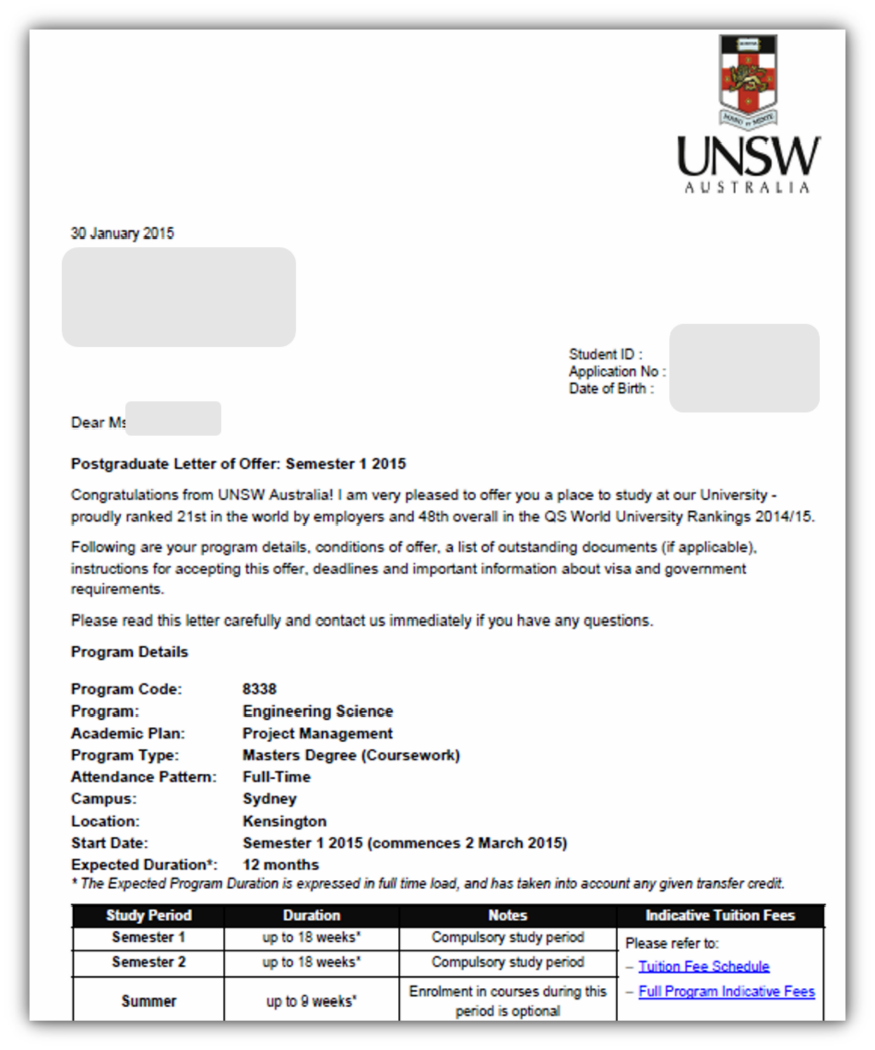
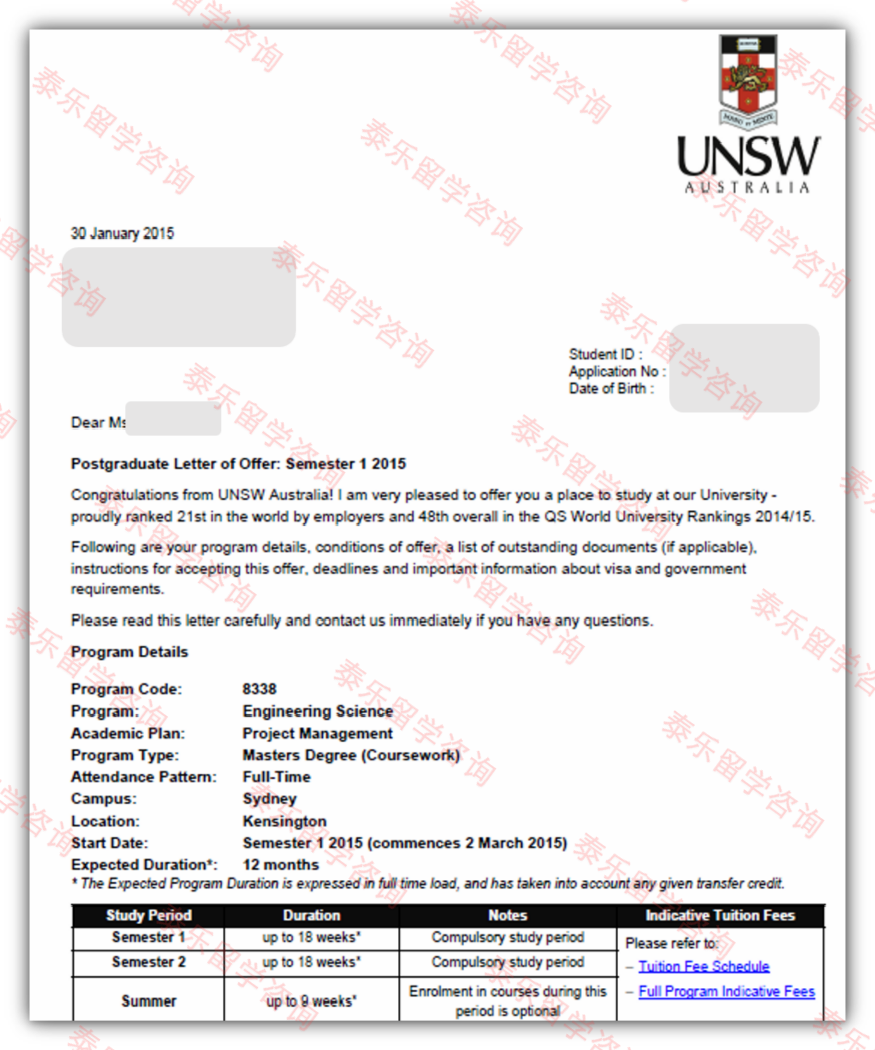
add water print and modify css to suit the phone device

diff --git a/css/custom-style.css b/css/custom-style.css
@@ -102,6 +102,22 @@ header .scroll-down .btn:hover {
     background: url(../img/career/career.jpg) no-repeat center center scroll;
 }
 
+@media (max-width: 500px) {
+    .header {
+        background: url(../img/Sydney-mobile.jpg) no-repeat center center scroll;
+    }
+    .header-university {
+        background: url(../img/university/universitylife-mobile.jpg) no-repeat center center scroll;
+    }
+    .header-plan {
+        background: url(../img/plan/plan-mobile.jpg) no-repeat center center scroll;
+    }
+    .header-career {
+        background: url(../img/career/career-mobile.jpg) no-repeat center center scroll;
+    }
+
+}
+
 header h1 {
     color: yellow;
 }
